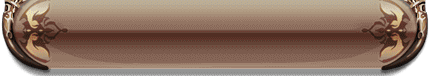
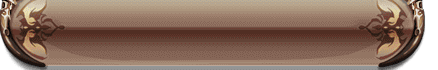
fix(phpbb): legible game-art chrome — uniform capsules, header text, cache-bust
The capsule crops carried a halo edge from the atlas, reading as a white
border on every button; recropped with an inset. Buttons rendered at
inconsistent heights because prosilver's per-variant paddings survived —
all button variants now share 34px metrics (height, line-height,
padding), border forced off, and the slim search buttons normalized.

The SSR banner headers put category names on top of the SSR medallion;
the title is indented past the medallion, the column labels clear the
arrow tip, and the row is centered vertically at 58px.

assets_version was also bumped (config, cache purged) so browsers fetch
the new stylesheet without a hard refresh.

diff --git a/roles/phpbb/files/phpbb/styles/granblue/theme/granblue.css b/roles/phpbb/files/phpbb/styles/granblue/theme/granblue.css
@@ -140,7 +140,8 @@ a:hover { color: #a5760f; text-decoration: underline; }
 
 li.header {
 	background: url('./images/game/scroll-title.png') center / 100% 100% no-repeat;
-	padding: 4px 8px;
+	padding: 6px 46px 6px 8px;
+	min-height: 58px;
 }
 
 li.header dt, li.header dd {
@@ -151,6 +152,14 @@ li.header dt, li.header dd {
 	letter-spacing: 0.06em;
 	text-shadow: 0 1px 0 #ffedb055;
 }
+
+/* the SSR medallion occupies the banner's left ~110px */
+li.header dt {
+	padding-left: 112px;
+	line-height: 46px;
+}
+
+li.header dd { line-height: 46px; }
 
 li.header dt a { color: #3a2a10; }
 
@@ -246,28 +255,41 @@ blockquote {
 
 .inputbox:focus, textarea:focus { border-color: #d9a838; }
 
+/* Primary: the bronze GBF capsule. Uniform metrics across every button
+   (anchors and inputs alike) so the capsules read at one height. */
 .button,
 .button1, .button2,
 a.button1, a.button2, input.button1, input.button2,
-.dropdown .button {
+.dropdown .button, .button-search, .button-search-end {
 	background: url('./images/game/button-gold.png') center / 100% 100% no-repeat;
-	border: none;
+	border: none !important;
 	color: #3a2a10;
 	font-family: Verdana, Geneva, Tahoma, sans-serif;
 	font-size: 1.1em;
 	font-weight: bold;
 	text-shadow: 0 1px 0 #ffedb088;
-	padding: 7px 30px;
+	display: inline-block;
+	height: 34px;
+	line-height: 32px;
+	padding: 0 32px;
+	box-sizing: border-box;
+	vertical-align: middle;
 }
 
 .button:hover, .button1:hover, .button2:hover,
-.dropdown .button:hover, a.button1:hover, a.button2:hover {
+.dropdown .button:hover, a.button1:hover, a.button2:hover,
+.button-search:hover, .button-search-end:hover {
 	background: url('./images/game/button-steel.png') center / 100% 100% no-repeat;
 	color: #f1e6c8;
 	text-shadow: 1px 1px 0 #000a;
 }
 
-.button-search { padding: 2px 6px; }
+/* the icon-only header search buttons keep the capsule but slim */
+.headerbar .button-search, .headerbar .button-search-end,
+.button-search, .button-search-end {
+	padding: 0 20px;
+	min-width: 34px;
+}
 
 /* ---- pagination --------------------------------------------- */
 
